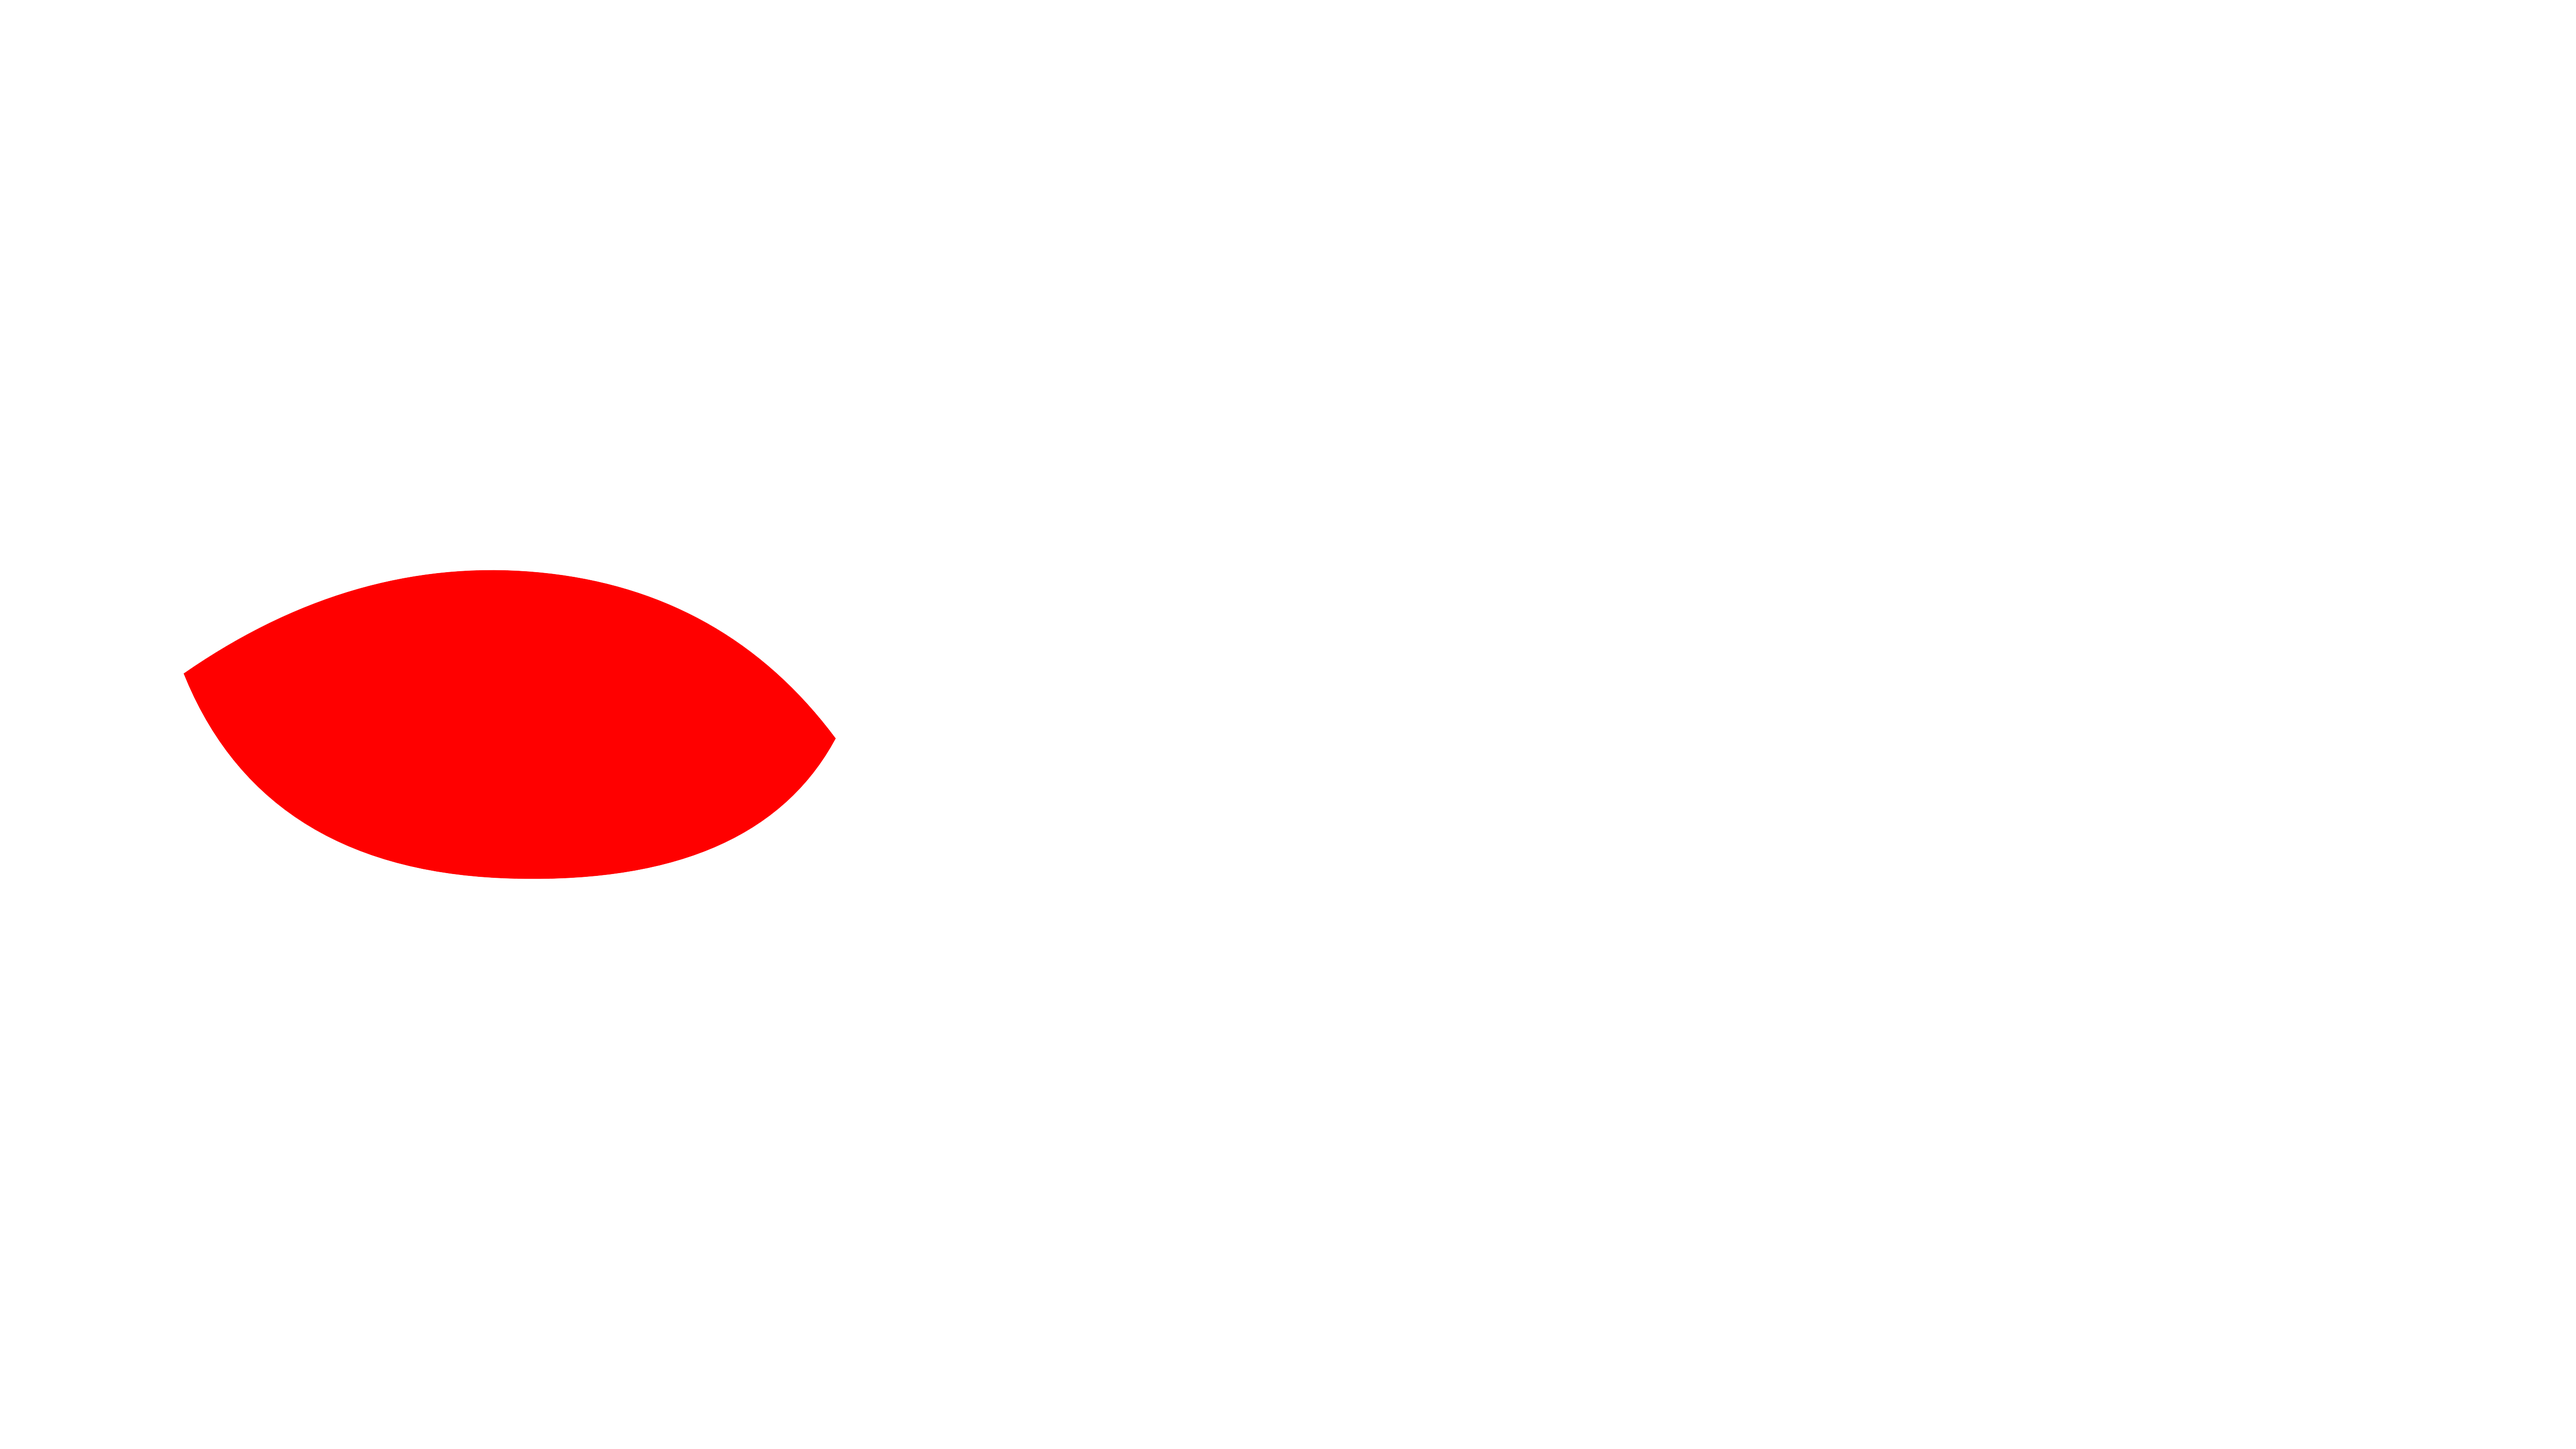
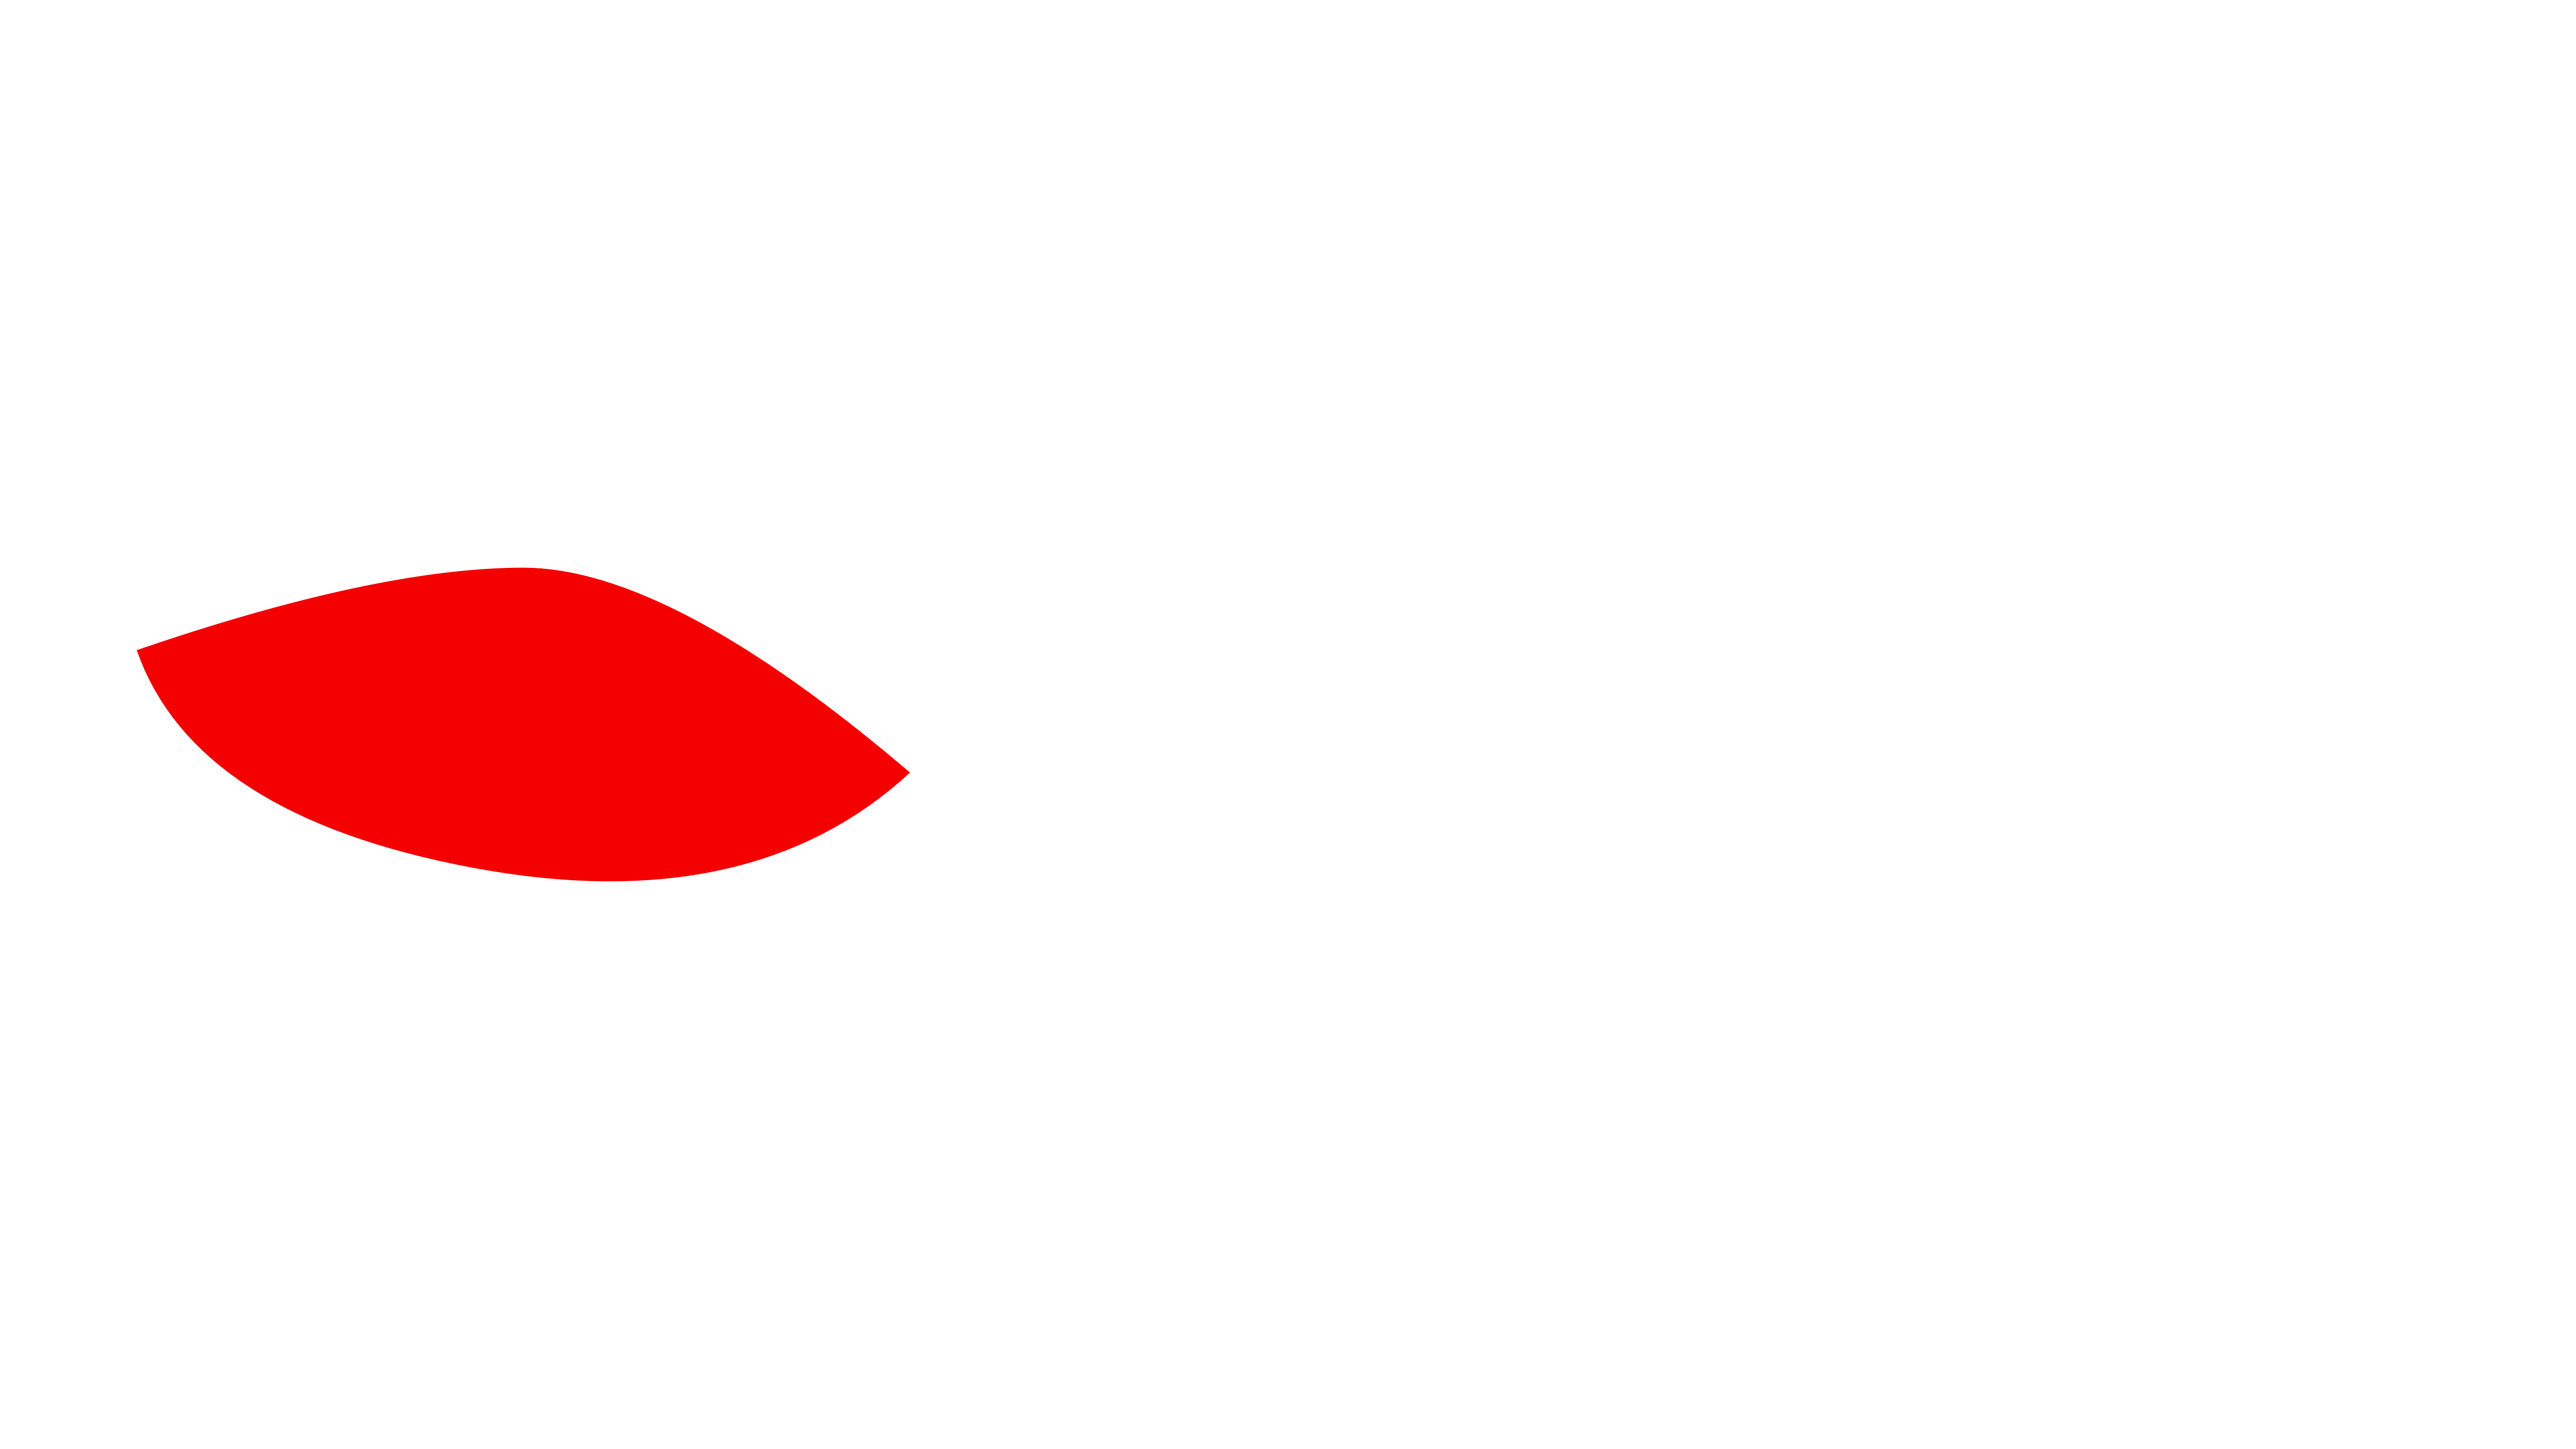
Add page animations and page5 eye refinements

diff --git a/index.html b/index.html
@@ -96,6 +96,12 @@
       height: 100dvh;
       z-index: 0;
       pointer-events: none;
+      transform-origin: center center;
+    }
+
+    #bgCanvas.is-page3-breathe {
+      animation: page3-canvas-breathe 7.5s ease-in-out infinite;
+      will-change: transform;
     }
 
     #cursor-canvas {
@@ -138,6 +144,30 @@
     #page-5 {
       background: #000;
       overflow: hidden;
+    }
+
+    .page-turn-curl {
+      position: fixed;
+      top: 0;
+      right: -34vw;
+      bottom: 0;
+      z-index: 12;
+      width: min(34vw, 420px);
+      opacity: 0;
+      pointer-events: none;
+      background:
+        linear-gradient(
+          90deg,
+          rgba(255, 244, 216, 0) 0%,
+          rgba(255, 236, 190, 0.24) 22%,
+          rgba(255, 250, 236, 0.7) 46%,
+          rgba(38, 26, 18, 0.36) 69%,
+          rgba(0, 0, 0, 0) 100%
+        );
+      filter: blur(0.4px);
+      mix-blend-mode: screen;
+      transform: translate3d(0, 0, 0) skewX(-8deg);
+      will-change: opacity, transform;
     }
 
     /* 视频页强制停住，避免滚过导致第三段 10–15s 动画未播放 */
@@ -192,6 +222,9 @@
       isolation: isolate;
       z-index: 1;
       pointer-events: auto;
+      animation: page4-scene-breathe 8.5s ease-in-out infinite;
+      transform-origin: center center;
+      will-change: transform;
     }
 
     .page4-layer {
@@ -211,6 +244,9 @@
       inset: 0;
       z-index: 1;
       pointer-events: none;
+      animation: page5-scene-breathe 8s ease-in-out infinite;
+      transform-origin: center center;
+      will-change: transform;
     }
 
     .page5-frame-layer {
@@ -230,6 +266,47 @@
       user-select: none;
       -webkit-user-drag: none;
       pointer-events: none;
+    }
+
+    @keyframes page5-scene-breathe {
+      0%,
+      100% {
+        transform: translate3d(0, 0, 0) scale(1);
+      }
+
+      25% {
+        transform: translate3d(-0.28vw, 0, 0) scale(1.009);
+      }
+
+      50% {
+        transform: translate3d(0.24vw, 0, 0) scale(1.018);
+      }
+
+      75% {
+        transform: translate3d(-0.16vw, 0, 0) scale(1.009);
+      }
+    }
+
+    @keyframes page4-scene-breathe {
+      0%,
+      100% {
+        transform: scale(1);
+      }
+
+      50% {
+        transform: scale(1.008);
+      }
+    }
+
+    @keyframes page3-canvas-breathe {
+      0%,
+      100% {
+        transform: scale(1);
+      }
+
+      50% {
+        transform: scale(1.02);
+      }
     }
 
     .page5-right-eye-window {
@@ -297,6 +374,8 @@
     }
 
     .page5-right-eye-ball {
+      position: relative;
+      z-index: 2;
       display: block;
       width: 100%;
       height: 100%;
@@ -313,8 +392,54 @@
       transition: transform 130ms ease-out;
     }
 
+    .page5-eye-bottom-shadow {
+      position: absolute;
+      z-index: 1;
+      left: 50%;
+      top: calc(50% + 0.5mm);
+      width: calc(100% + 1mm);
+      height: calc(100% + 1mm);
+      border-radius: 50%;
+      background: rgba(0, 0, 0, 0.45);
+      filter: blur(3px);
+      pointer-events: none;
+      transform: translate(
+        calc(-50% + var(--page5-eye-shift-x)),
+        calc(-50% + var(--page5-eye-shift-y))
+      );
+      transition: transform 130ms ease-out;
+    }
+
+    .page5-eye-shadow {
+      position: absolute;
+      z-index: 3;
+      left: 50%;
+      top: calc(50% - 0.5mm);
+      width: calc(100% + 1mm);
+      height: calc(100% + 1mm);
+      border-radius: 50%;
+      background:
+        radial-gradient(
+          ellipse at 50% 2%,
+          rgba(0, 0, 0, 0.54) 0%,
+          rgba(0, 0, 0, 0.46) 18%,
+          rgba(0, 0, 0, 0.24) 34%,
+          rgba(0, 0, 0, 0) 54%
+        );
+      filter: blur(1px);
+      pointer-events: none;
+      mix-blend-mode: multiply;
+      transform: translate(
+        calc(-50% + var(--page5-eye-shift-x)),
+        calc(-50% + var(--page5-eye-shift-y))
+      );
+      transition: transform 130ms ease-out;
+    }
+
     .page5-right-eye-window.is-resting .page5-right-eye-ball,
-    .page5-second-eye-window.is-resting .page5-right-eye-ball {
+    .page5-second-eye-window.is-resting .page5-right-eye-ball,
+    .page5-right-eye-window.is-resting .page5-eye-bottom-shadow,
+    .page5-right-eye-window.is-resting .page5-eye-shadow {
       transition-duration: 680ms;
       transition-timing-function: cubic-bezier(0.22, 1, 0.36, 1);
     }
@@ -1790,6 +1915,8 @@
         </div>
         <div class="page5-right-eye-window" id="page5RightEyeWindow">
           <div class="page5-right-eye-anchor">
+            <div class="page5-eye-bottom-shadow" aria-hidden="true"></div>
+            <div class="page5-eye-shadow" aria-hidden="true"></div>
             <img class="page5-right-eye-ball" src="outputs/assets/images/page5/eyeball1.png?v=eye-restored-1" alt="">
           </div>
         </div>
@@ -1806,6 +1933,7 @@
   </main>
 
   <p class="scroll-hint" id="scrollHint">Scroll to explore</p>
+  <div class="page-turn-curl" id="pageTurnCurl" aria-hidden="true"></div>
 
   <div id="introModal" class="intro-modal" hidden aria-hidden="true">
     <div class="intro-modal__shader" aria-hidden="true"></div>
@@ -2189,6 +2317,7 @@
     </div>
   </div>
 
+  <script defer src="https://cdnjs.cloudflare.com/ajax/libs/gsap/3.12.5/gsap.min.js"></script>
   <script>
     /* ═══════════════════════════════════════════
        可调参数 CONFIG
@@ -2283,6 +2412,7 @@
     const soundToggle = document.getElementById("soundToggle");
     const bgAudio = document.getElementById("bgAudio");
     const scrollHint = document.getElementById("scrollHint");
+    const pageTurnCurl = document.getElementById("pageTurnCurl");
     const page4Scene = document.querySelector(".page4-scene");
     const page4BackLayer = document.querySelector(".page4-layer--back");
     const page4FrontLayer = document.querySelector(".page4-layer--front");
@@ -2296,6 +2426,7 @@
     const page4ScratchMaskCanvas = page4PreviewCtx ? document.createElement("canvas") : null;
     const page4ScratchMaskCtx = page4ScratchMaskCanvas ? page4ScratchMaskCanvas.getContext("2d") : null;
     const page5Section = document.getElementById("page-5");
+    const page5Scene = document.querySelector(".page5-scene");
     const page5RightEyeWindow = document.getElementById("page5RightEyeWindow");
     const page5SecondEyeWindow = document.getElementById("page5SecondEyeWindow");
     const PAGE2_INDEX = 1;
@@ -2309,7 +2440,7 @@
     const PAGE4_ENTER_PREVIEW_LIFE = 860;
     const PAGE5_BG_WIDTH = 5461;
     const PAGE5_BG_HEIGHT = 3072;
-    const PAGE5_EYE_MAX_X = 6;
+    const PAGE5_EYE_MAX_X = 11;
     const PAGE5_EYE_MAX_Y = 1;
 
     const frames = new Array(CONFIG.totalFrames + 1);
@@ -2449,6 +2580,9 @@
 
     function updateCanvasVisibility() {
       const activeIndex = getStableActivePageIndex();
+      if (activeIndex !== PAGE3_INDEX || !pagePlayback[PAGE3_INDEX].done) {
+        setPage3CanvasBreathe(false);
+      }
       const onStaticPage = !isVideoPage(activeIndex);
       canvas.style.opacity = onStaticPage ? "0" : "1";
     }
@@ -2589,6 +2723,10 @@
       drawCoverToContext(ctx, img, window.innerWidth, window.innerHeight);
     }
 
+    function setPage3CanvasBreathe(isActive) {
+      canvas.classList.toggle("is-page3-breathe", Boolean(isActive));
+    }
+
     function resizePage4PreviewCanvas() {
       if (!page4PreviewLayer || !page4PreviewCtx) return;
       const dpr = Math.min(window.devicePixelRatio || 1, 2);
@@ -2606,6 +2744,7 @@
     }
 
     function renderFrame(frameIndex) {
+      setPage3CanvasBreathe(false);
       const idx = Math.max(1, Math.min(CONFIG.totalFrames, Math.round(frameIndex)));
       const img = frames[idx];
 
@@ -2641,6 +2780,7 @@
       drawCover(page3BgImage);
       displayedFrame = NODES[PAGE3_INDEX].endFrame;
       isShowingPage3Background = true;
+      setPage3CanvasBreathe(true);
     }
 
     function smoothstep(edge0, edge1, x) {
@@ -3030,11 +3170,84 @@
     let targetPageIndex = null;
     let postScrollCooldownTimer = 0;
     let scrollTweenFrame = null;
+    let pageTurnTimeline = null;
 
     function easeInOutCubic(t) {
       return t < 0.5
         ? 4 * t * t * t
         : 1 - Math.pow(-2 * t + 2, 3) / 2;
+    }
+
+    function resetPageTurn(shouldKillTimeline = true) {
+      if (shouldKillTimeline && pageTurnTimeline) {
+        pageTurnTimeline.kill();
+      }
+      pageTurnTimeline = null;
+
+      if (pageTurnCurl) {
+        pageTurnCurl.style.opacity = "0";
+        pageTurnCurl.style.transform = "";
+      }
+
+      if (page5Scene) {
+        page5Scene.style.clipPath = "";
+        page5Scene.style.webkitClipPath = "";
+        page5Scene.style.opacity = "";
+      }
+    }
+
+    function playPage4ToPage5Turn(fromIndex, toIndex) {
+      if (fromIndex !== PAGE4_INDEX || toIndex !== PAGE5_INDEX) return;
+      if (!pageTurnCurl || !page5Scene) return;
+
+      resetPageTurn();
+
+      if (!window.gsap) {
+        pageTurnCurl.animate(
+          [
+            { opacity: 0, transform: "translate3d(0, 0, 0) skewX(-8deg)" },
+            { opacity: 0.95, transform: "translate3d(-68vw, 0, 0) skewX(-8deg)" },
+            { opacity: 0, transform: "translate3d(-118vw, 0, 0) skewX(-8deg)" },
+          ],
+          { duration: 720, easing: "cubic-bezier(0.32, 0, 0.12, 1)" }
+        );
+        return;
+      }
+
+      const gsap = window.gsap;
+      pageTurnTimeline = gsap.timeline({
+        defaults: { ease: "power2.inOut" },
+        onComplete: () => resetPageTurn(false),
+      });
+
+      gsap.set(page5Scene, {
+        opacity: 0.98,
+        clipPath: "inset(0 100% 0 0)",
+        webkitClipPath: "inset(0 100% 0 0)",
+      });
+      gsap.set(pageTurnCurl, {
+        autoAlpha: 0,
+        x: 0,
+        skewX: -8,
+      });
+
+      pageTurnTimeline
+        .to(page5Scene, {
+          clipPath: "inset(0 0% 0 0)",
+          webkitClipPath: "inset(0 0% 0 0)",
+          opacity: 1,
+          duration: 0.72,
+        }, 0)
+        .to(pageTurnCurl, {
+          autoAlpha: 0.96,
+          x: "-72vw",
+          duration: 0.46,
+        }, 0.04)
+        .to(pageTurnCurl, {
+          autoAlpha: 0,
+          x: "-126vw",
+          duration: 0.34,
+        }, 0.44);
     }
 
     function clearWheelGestureLock() {
@@ -3104,6 +3317,7 @@
 
     function startSectionScroll(targetIndex) {
       const index = clamp(targetIndex, 0, NODES.length - 1);
+      const fromIndex = getStableActivePageIndex();
       const startY = window.scrollY;
       const targetY = Math.round(index * window.innerHeight);
 
@@ -3129,6 +3343,12 @@
       targetPageIndex = index;
       wheelGestureLocked = true;
       const startedAt = performance.now();
+
+      if (fromIndex === PAGE4_INDEX && index === PAGE5_INDEX) {
+        playPage4ToPage5Turn(fromIndex, index);
+      } else {
+        resetPageTurn();
+      }
 
       const step = (now) => {
         const progress = clamp((now - startedAt) / SECTION_SCROLL_DURATION, 0, 1);
